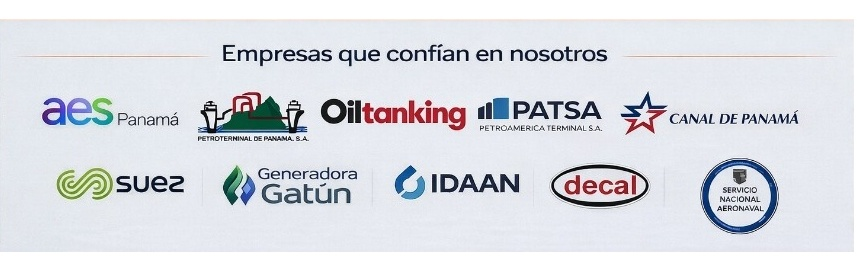
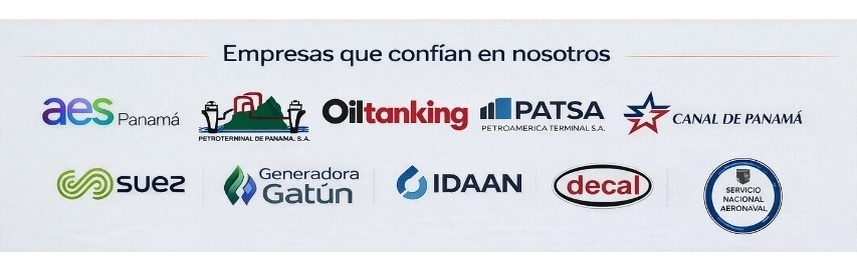
CD

diff --git a/app/la-empresa/page.tsx b/app/la-empresa/page.tsx
@@ -47,14 +47,27 @@ export default function CompanyPage() {
       <section className="bg-white py-24">
         <Container>
           <Reveal>
-            <div className="max-w-5xl">
-              <SectionHeading
-                eyebrow="Quiénes somos"
-                title="Una empresa enfocada en soluciones industriales de alto valor"
-              />
-              <div className="mt-5 max-w-[68ch] space-y-5">
-                <p className="text-[1.02rem] leading-8 text-[var(--qts-muted)]">{companyPage.whoWeAre}</p>
-                <p className="text-[1.02rem] leading-8 text-[var(--qts-muted)]">{companyPage.whoWeAre2}</p>
+            <div className="grid gap-10 lg:grid-cols-[1.02fr_0.78fr] lg:items-center">
+              <div className="max-w-4xl">
+                <SectionHeading
+                  eyebrow="Quiénes somos"
+                  title="Una empresa enfocada en soluciones industriales de alto valor"
+                />
+                <div className="mt-5 max-w-[62ch] space-y-5">
+                  <p className="text-[1.02rem] leading-8 text-[var(--qts-muted)]">{companyPage.whoWeAre}</p>
+                  <p className="text-[1.02rem] leading-8 text-[var(--qts-muted)]">{companyPage.whoWeAre2}</p>
+                </div>
+              </div>
+              <div className="mx-auto flex w-full max-w-[420px] items-center justify-center lg:justify-end">
+                <div className="relative aspect-[1137/820] w-full max-w-[360px]">
+                  <Image
+                    src="/images/brand/logo-qts-mark.png"
+                    alt="Logotipo de Quality Techno Services"
+                    fill
+                    sizes="(max-width: 1024px) 60vw, 360px"
+                    className="object-contain drop-shadow-[0_16px_30px_rgba(18,30,52,0.12)]"
+                  />
+                </div>
               </div>
             </div>
           </Reveal>

diff --git a/app/servicios/page.tsx b/app/servicios/page.tsx
@@ -249,16 +249,16 @@ export default function ServicesPage() {
               </div>
             </Reveal>
             <Reveal delay={0.08}>
-              <div className="mx-auto max-w-3xl">
-                <div className="mx-auto max-w-[40rem] text-center">
+              <div className="mx-auto flex h-full w-full max-w-[44rem] flex-col justify-center">
+                <div className="mx-auto max-w-[38rem] text-center">
                   <h2 className="text-balance text-3xl font-semibold tracking-[-0.04em] text-white sm:text-4xl lg:text-[3rem]">
                     Especialización en confiabilidad, seguridad y continuidad operativa
                   </h2>
-                  <p className="mt-5 text-base leading-8 text-white/82 sm:text-[1.18rem]">
+                  <p className="mt-5 text-[1.08rem] leading-8 text-white/82 sm:text-[1.22rem]">
                     Respaldo técnico y ejecución documentada para aplicaciones críticas de alta exigencia.
                   </p>
                 </div>
-                <div className="mt-8 space-y-4">
+                <div className="mt-8 w-full space-y-4">
                   {featuredHighlights.map((item, index) => {
                     const Icon = item.icon;
                     return (

diff --git a/components/sections/clients-strip.tsx b/components/sections/clients-strip.tsx
@@ -15,7 +15,7 @@ export function ClientsStrip() {
                 alt="Empresas que confían en Quality Techno Services"
                 fill
                 sizes="(max-width: 1280px) 100vw, 1200px"
-                className="object-contain"
+                className="object-cover object-center"
               />
             </div>
           </div>
